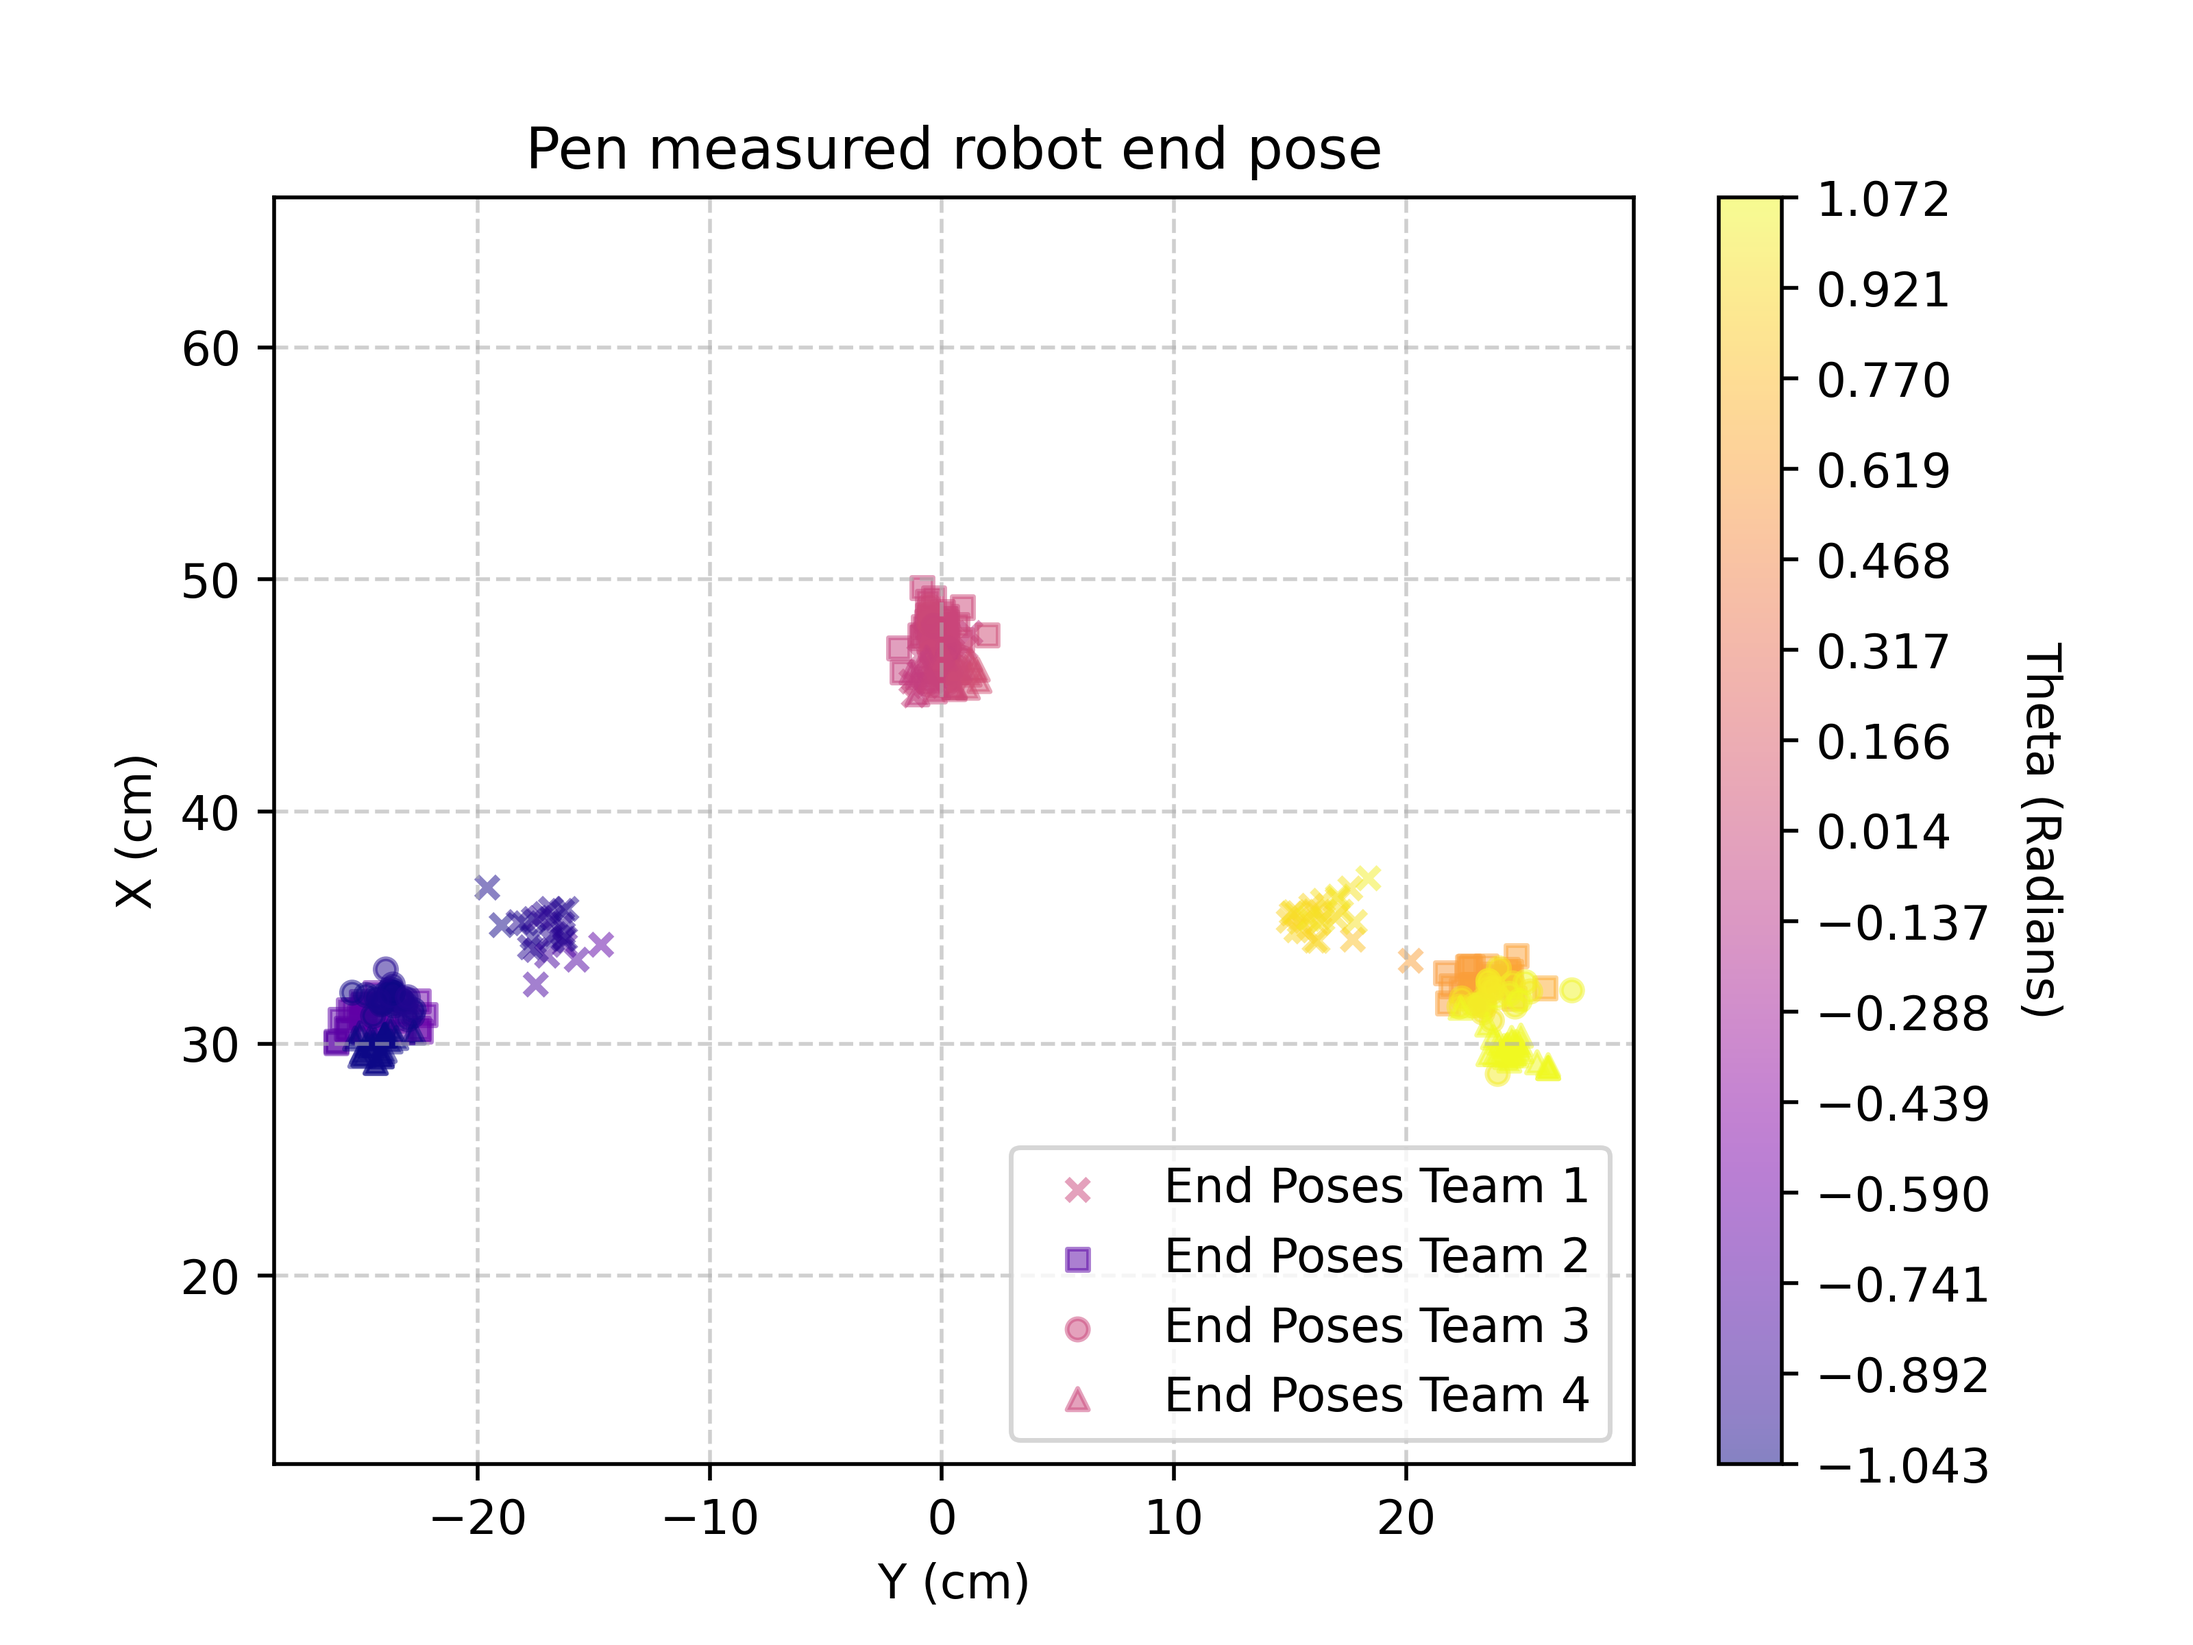
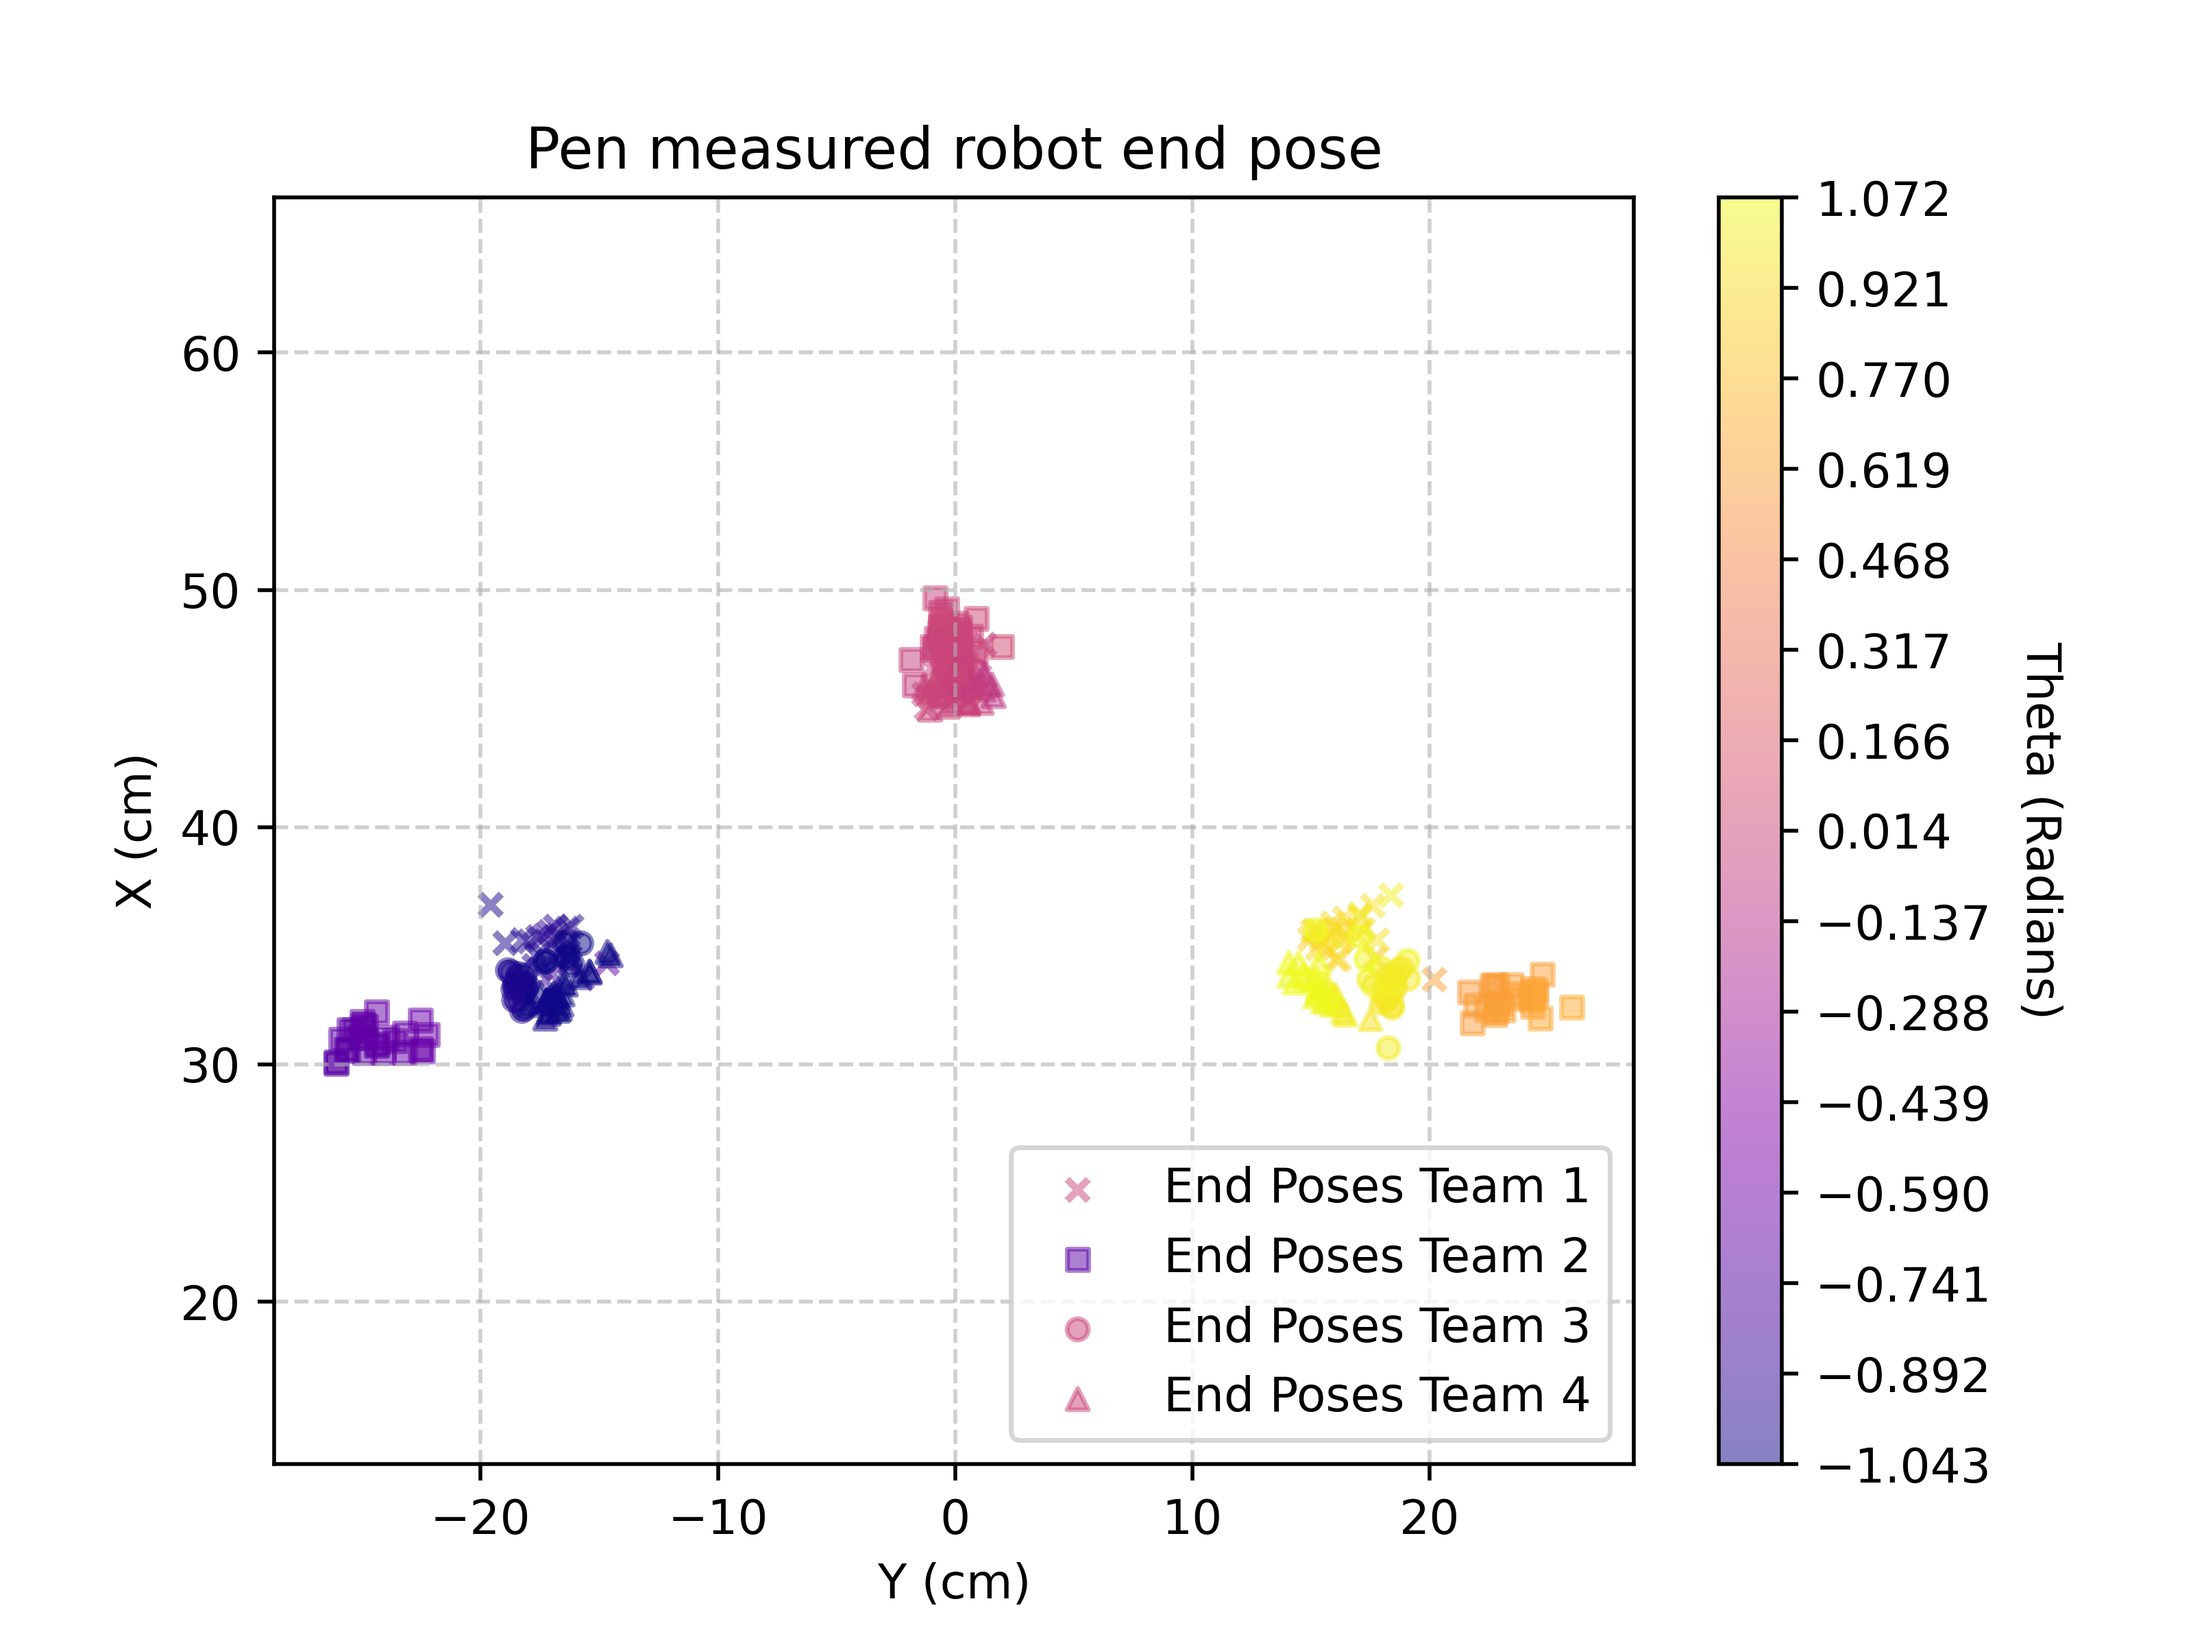
Added group 3 and 4 fixed data and plots

diff --git a/code/Calculations.py b/code/Calculations.py
@@ -62,7 +62,7 @@ manual_df4['Theta'] *= np.pi/180
 encoder_df4.columns = ['Y', 'X', 'Theta']
 encoder_df4['Theta'] -= np.pi/2
 
-'''
+#'''
 # Plot the results
 plt.figure()
 
@@ -332,6 +332,7 @@ print('Finished plotting')
 
 #'''
 
+'''
 # ====================================================
 #               ASSIGNMENT 3 ANALYSIS STEPS
 # ====================================================
@@ -378,4 +379,4 @@ print(chi_summary_df)
 # Save to a single summary file (with all directions)
 chi_summary_df.to_csv('../data/chi_square_summary.csv', index=False)
 
-
+#'''
